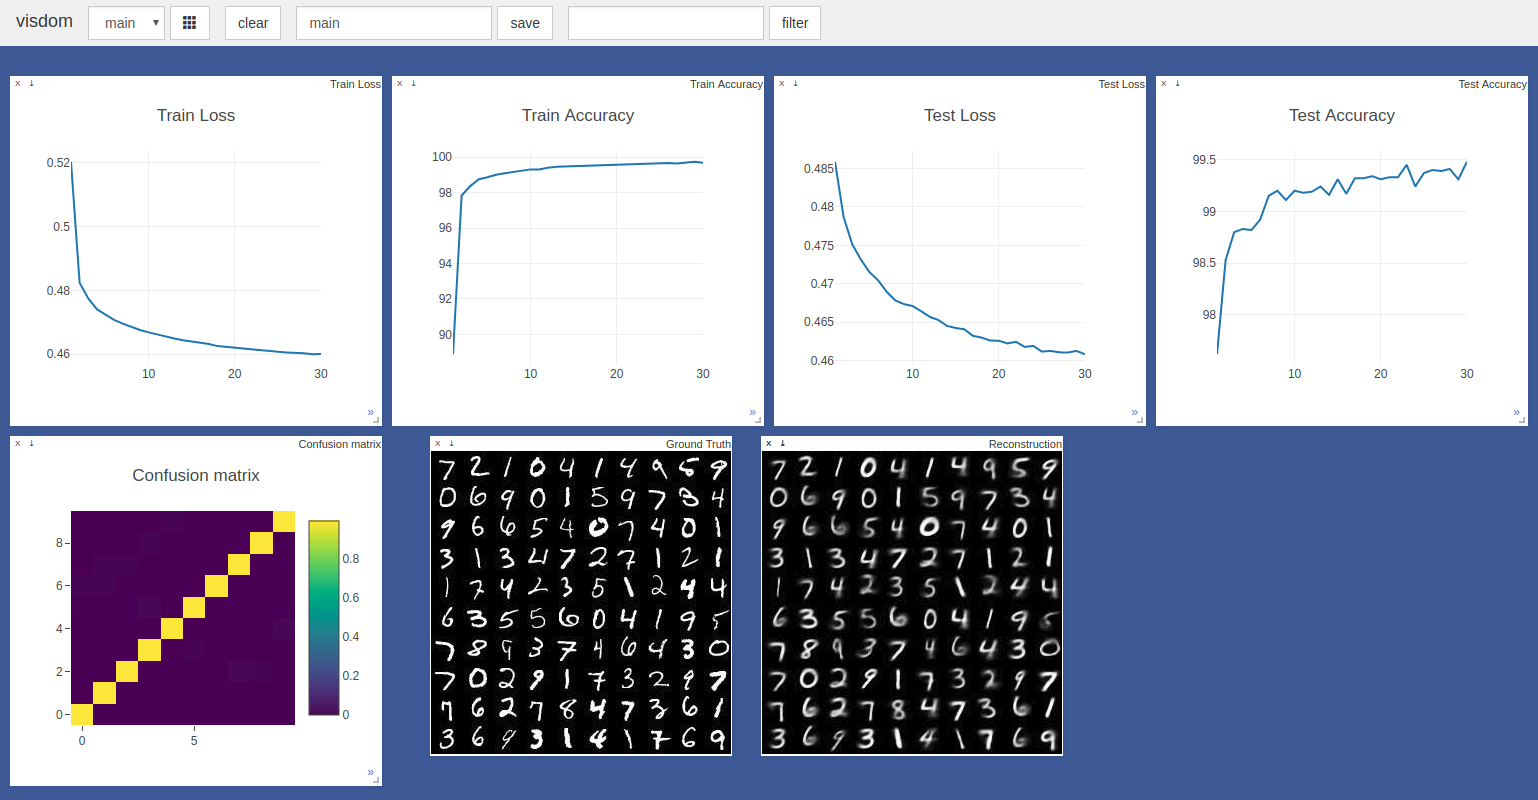
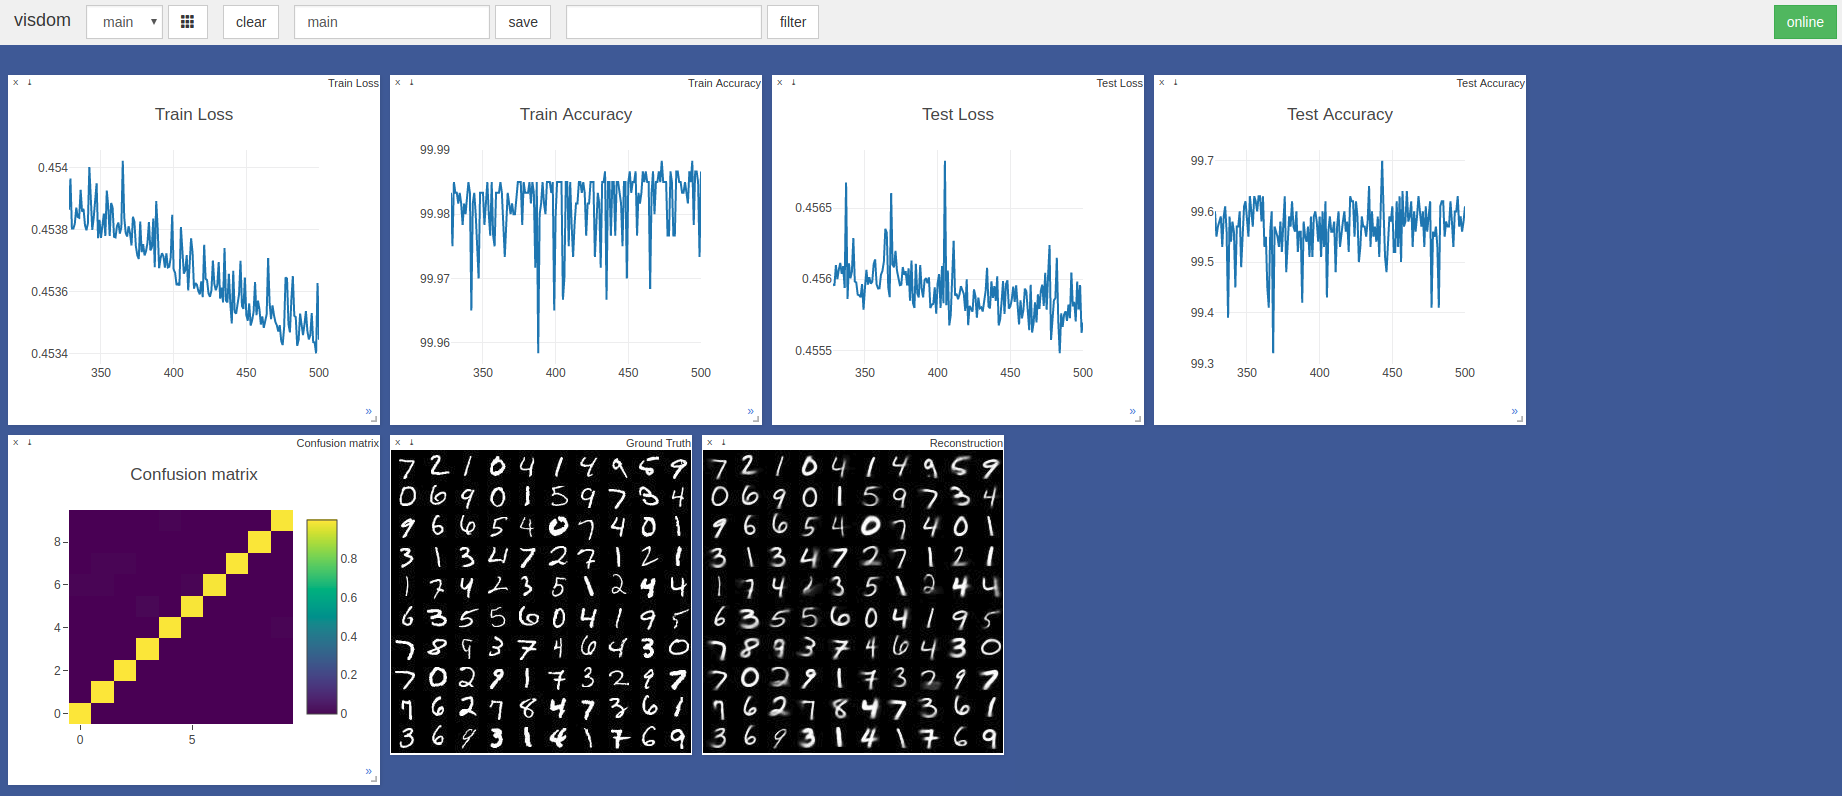
Trained further; 99.7% validation accuracy.

diff --git a/capsule_network.py b/capsule_network.py
@@ -12,7 +12,7 @@ import numpy as np
 
 BATCH_SIZE = 100
 NUM_CLASSES = 10
-NUM_EPOCHS = 30
+NUM_EPOCHS = 500
 NUM_ROUTING_ITERATIONS = 3
 
 
@@ -143,6 +143,7 @@ if __name__ == "__main__":
     import torchnet as tnt
 
     model = CapsuleNet()
+    model.load_state_dict(torch.load('epochs/epoch_327.pt'))
     model.cuda()
 
     print("# parameters:", sum(param.numel() for param in model.parameters()))
@@ -250,7 +251,10 @@ if __name__ == "__main__":
         reconstruction_logger.log(
             make_grid(reconstruction, nrow=int(BATCH_SIZE ** 0.5), normalize=True, range=(0, 1)).numpy())
 
+    def on_start(state):
+        state['epoch'] = 327
 
+    engine.hooks['on_start'] = on_start
     engine.hooks['on_sample'] = on_sample
     engine.hooks['on_forward'] = on_forward
     engine.hooks['on_start_epoch'] = on_start_epoch

diff --git a/README.md b/README.md
@@ -38,7 +38,7 @@ $ sudo python3 -m visdom.server & python3 capsule_network.py
 
 ## Benchmarks
 
-Highest accuracy was 99.48% after 30 epochs. The model may achieve a higher accuracy as shown by the trend of the test accuracy/loss graphs below.
+Highest accuracy was 99.7% on the 443rd epoch. The model may achieve a higher accuracy as shown by the trend of the test accuracy/loss graphs below.
 
 ![Training progress.](media/Benchmark.png)
 
